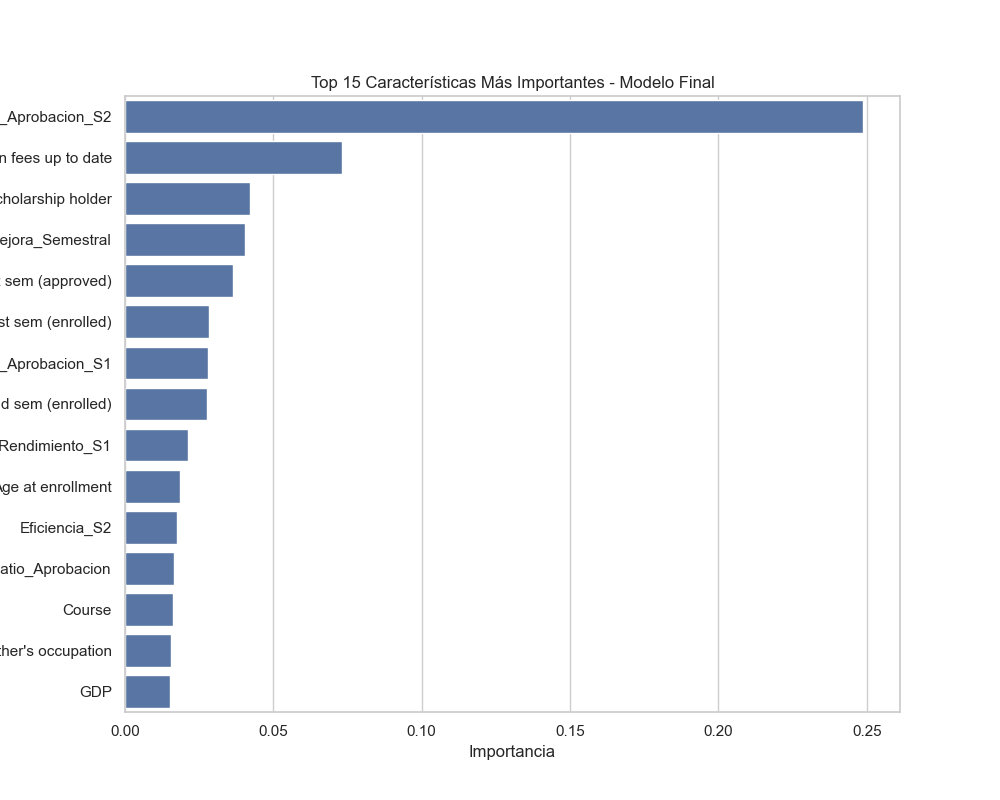
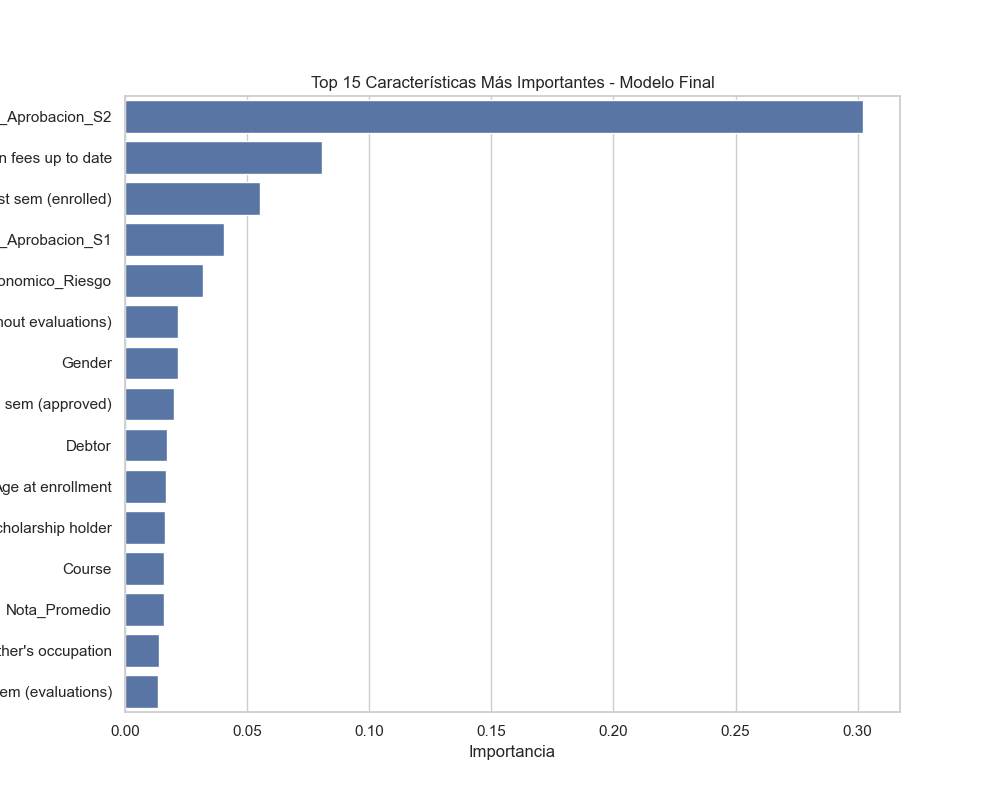
feat(doc): add detailed classification report and update model figures
- Replaced derived metrics list with a full Classification Report table in Annex B.4.
- Updated confusion matrix, feature importance, and ROC curve figures to match the latest model run.

diff --git a/reports/annex.md b/reports/annex.md
@@ -241,12 +241,15 @@ El **Área Bajo la Curva ROC** mide la capacidad del modelo para distinguir entr
 ![Matriz de Confusión](figures/binary_confusion_matrix.png)
 *Fig B.2. Visualización de la matriz de confusión con codificación de color.*
 
-**Métricas Derivadas:**
+#### Reporte de Clasificación (Detallado)
 
-* **Sensibilidad (Recall):** 221/(221+63) = **77.8%** → El sistema detecta a casi 8 de cada 10 estudiantes en riesgo.
-* **Precisión (Precision):** 221/(221+37) = **85.6%** → Cuando el sistema emite una alerta, tiene alta probabilidad de ser correcta.
-* **Especificidad:** 564/(564+37) = **93.8%** → El modelo evita falsas alarmas en la mayoría de los casos.
-(Obtenido de /notebooks/anexos_conceptuales/)
+| Clase | Precision | Recall | F1-Score | Support (Casos Reales) |
+| :--- | :---: | :---: | :---: | :---: |
+| **No Dropout (Clase 0)** | 0.90 | 0.94 | 0.92 | 601 |
+| **Dropout (Clase 1)** | 0.86 | 0.78 | 0.82 | 284 |
+| **Accuracy Global** | | | **0.89** | **885** |
+| **Macro Avg** | 0.88 | 0.86 | 0.87 | 885 |
+| **Weighted Avg** | 0.89 | 0.89 | 0.89 | 885 |
 
 **Análisis de Errores:**
 
